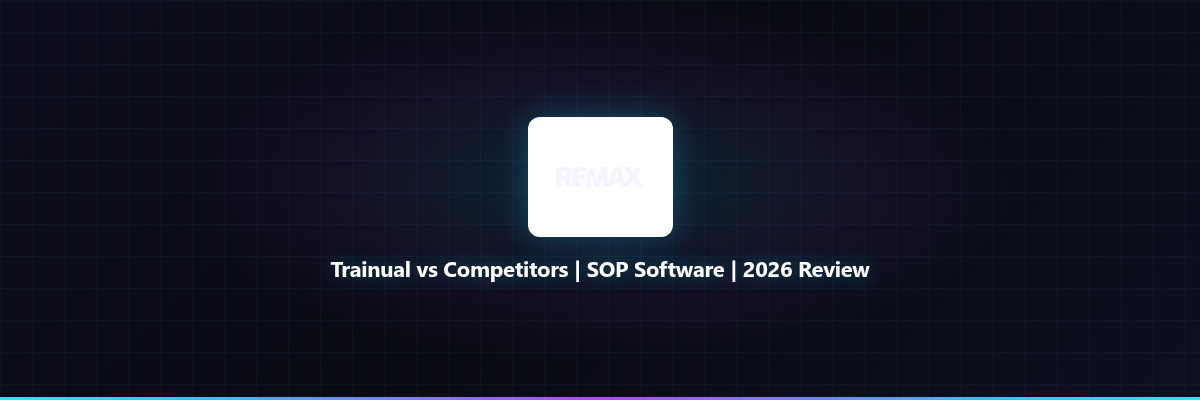
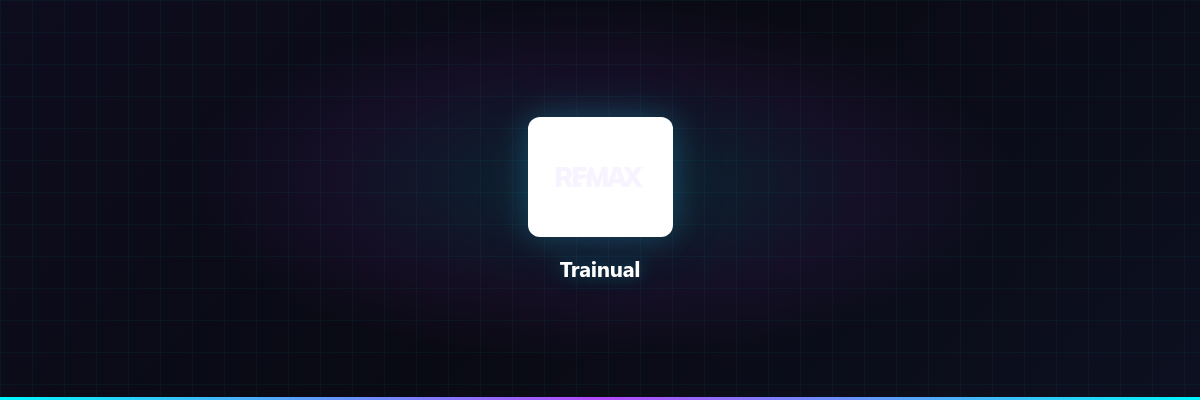
Auto-publish dynamic landing page 2026-04-23 17:34

Changed region(s): [[0.2775, 0.63, 0.74, 0.69]]

diff --git a/trainual.html b/trainual.html
@@ -4,11 +4,11 @@
   <meta charset="UTF-8">
   <meta name="viewport" content="width=device-width, initial-scale=1.0">
   <meta name="product-name" content="Trainual">
-  <title>Trainual vs Competitors | SOP Software | 2026 Review</title>
-  <meta name="description" content="Trainual is the #1 employee training software. Document processes, train teams, and scale your business. See why thousands switch from expensive alternatives.">
+  <title>Trainual | Training &amp; SOP Software | 2026 Review</title>
+  <meta name="description" content="Trainual is the #1 employee training software. Document processes, train teams, and scale your business with visual SOPs and automated workflows.">
   <meta name="theme-color" content="#0a0a0f">
-  <meta property="og:title" content="Trainual vs Competitors | SOP Software | 2026 Review">
-  <meta property="og:description" content="Trainual is the #1 employee training software. Document processes, train teams, and scale your business. See why thousands switch from expensive alternatives.">
+  <meta property="og:title" content="Trainual | Training &amp; SOP Software | 2026 Review">
+  <meta property="og:description" content="Trainual is the #1 employee training software. Document processes, train teams, and scale your business with visual SOPs and automated workflows.">
   <meta property="og:type" content="website">
   <meta property="og:url" content="https://mikeoller82.github.io/trainual.html">
   <link rel="preconnect" href="https://fonts.googleapis.com">
@@ -24,26 +24,26 @@
     <div class="float-shape float-shape-2"></div>
     <div class="float-shape float-shape-3"></div>
     <div class="hero-badge"><span class="live-dot"></span> VERIFIED PARTNER</div>
-    <h1 class="glitch" data-text="Trainual">Why Pay <span class='cyan'>$500+</span> For Process Documentation When Trainual Costs Less?</h1>
-    <p>The expensive competitors charge arm and leg for basic SOP software. Trainual gives you better features, easier setup, and flat-rate pricing. Stop overpaying for training your team.</p>
+    <h1 class="glitch" data-text="Trainual">Cut Training Time <span class='cyan'>By 75%</span> With Visual SOPs</h1>
+    <p>Stop explaining the same things over and over. Build training once with Trainual's visual process builder. Your team learns 4x faster, and you scale without chaos.</p>
     <div class="hero-stats">
       <div class="hero-stat">
-        <span class="hero-stat-value">$149/mo</span>
-        <span class="hero-stat-label">vs $500+ competitors</span>
+        <span class="hero-stat-value">80%</span>
+        <span class="hero-stat-label">Faster onboarding</span>
       </div>
       <div class="hero-stat-dot"></div>
       <div class="hero-stat">
-        <span class="hero-stat-value">5 min</span>
-        <span class="hero-stat-label">Avg setup time</span>
+        <span class="hero-stat-value">4x</span>
+        <span class="hero-stat-label">Learning speed</span>
       </div>
       <div class="hero-stat-dot"></div>
       <div class="hero-stat">
-        <span class="hero-stat-value">10K+</span>
-        <span class="hero-stat-label">Teams onboarded</span>
+        <span class="hero-stat-value">$18K</span>
+        <span class="hero-stat-label">Avg annual savings</span>
       </div>
     </div>
     <div class="safe-cta-wrap">
-      <a href="https://start.trainual.com/i0y1tno1sads" class="btn btn-gold">Get Started Free →</a>
+      <a href="https://start.trainual.com/i0y1tno1sads" class="btn btn-gold">Start Free →</a>
     </div>
   </div>
 
@@ -64,32 +64,32 @@
     <div class="card">
       <div class="card-body">
         <span class="badge badge-offer">🔥 CORE FEATURE</span>
-        <h3>Visual SOP Builder</h3>
-        <p>Build standard operating procedures with a drag-and-drop editor. No technical skills needed. Your team creates professional docs in minutes, not hours.</p>
+        <h3>Visual Process Builder</h3>
+        <p>Create step-by-step SOPs with screenshots and video in minutes. No technical skills. Your team follows exactly what they see.</p>
         
       </div>
     </div>
     <div class="card">
       <div class="card-body">
         <span class="badge badge-offer">⭐ STANDOUT</span>
-        <h3>Team Training Tracker</h3>
-        <p>Assign training modules and track completion in real-time. Know exactly who knows what. Eliminate guesswork from onboarding new hires.</p>
+        <h3>Auto-Assign Training</h3>
+        <p>Automatically assign modules when someone joins or changes roles. No manual tracking. Progress updates itself.</p>
         
       </div>
     </div>
     <div class="card">
       <div class="card-body">
         <span class="badge badge-offer">🔥 ESSENTIAL</span>
-        <h3>Process Versioning</h3>
-        <p>Every update autosaves with version history. Roll back mistakes instantly. Never lose your best procedures to outdated documents.</p>
+        <h3>Built-in Quizzes</h3>
+        <p>Test comprehension with auto-graded quizzes. Know who's ready and who needs help. No surprises on performance.</p>
         
       </div>
     </div>
     <div class="card">
       <div class="card-body">
         <span class="badge badge-offer">🔥 DIFFERENTIATOR</span>
-        <h3>Integrations Stack</h3>
-        <p>Connect with Slack, Teams, Google Workspace, and 50+ tools. Your training lives where your team works. No switching apps to get trained.</p>
+        <h3>Version Control</h3>
+        <p>Update a process once, and everyone sees the latest version. No outdated PDFs floating around. Always current.</p>
         
       </div>
     </div>
@@ -108,11 +108,11 @@
   <div class="lp-grid-2">
     <div class="lp-card lp-card-pros">
       <h3>✅ Where It Excels</h3>
-      <ul><li>Flat-rate pricing — no per-user costs</li><li>Visual builder — no learning curve</li><li>Mobile-accessible from any device</li><li>Free onboarding support included</li></ul>
+      <ul><li>Save 10+ hours/week on repeat training</li><li>Reduce onboarding from weeks to days</li><li>90%+ completion rates on training</li><li>Searchable company knowledge base</li></ul>
     </div>
     <div class="lp-card lp-card-cons">
       <h3>❌ Where It Falls Short</h3>
-      <ul><li>Advanced analytics on Business plan only</li><li>Custom domains require Enterprise</li><li>Some integrations need API setup</li></ul>
+      <ul><li>Limited offline access on mobile</li><li>Advanced reporting on higher plans</li><li>Some integrations need API setup</li></ul>
     </div>
   </div>
   <hr class="divider">
@@ -121,8 +121,12 @@
     <h2><span class="icon">💬</span> What Real Users Say</h2>
   </div>
   <div class="lp-text">
-    <blockquote>Day 1: Built first SOP. Week 1: Trained 3 new hires. Month 1: Saved 20 hours/week.</blockquote>
-    <p>Marcus T., Operations Manager</p>
+    <blockquote>Onboarded 15 new hires in 2 weeks. Used to take 8 weeks. Clients noticed the difference immediately.</blockquote>
+    <p>Sarah K., Operations Manager</p>
+<blockquote>Cut training time by 75%. New hires are productive on day 3 instead of week 3.</blockquote>
+    <p>Marcus T., Team Lead</p>
+<blockquote>Finally found a tool that actually gets used. 100% adoption rate in 30 days.</blockquote>
+    <p>Lisa M., HR Director</p>
 
   </div>
   <hr class="divider">
@@ -135,22 +139,22 @@
     <div class="card">
       <div class="card-body">
         <span class="badge badge-featured">STEP 1</span>
-        <h3>1. Document Your Process</h3>
-        <p>Use the visual builder to create your first SOP in minutes</p>
+        <h3>1. Record Your Process</h3>
+        <p>Click through your workflow once while Trainual captures screenshots and steps</p>
       </div>
     </div>
     <div class="card">
       <div class="card-body">
         <span class="badge badge-featured">STEP 2</span>
-        <h3>2. Assign to Team</h3>
-        <p>Push training to specific people or roles with due dates</p>
+        <h3>2. Build the Training</h3>
+        <p>Add context, quizzes, and approvals with drag-and-drop simplicity</p>
       </div>
     </div>
     <div class="card">
       <div class="card-body">
         <span class="badge badge-featured">STEP 3</span>
-        <h3>3. Track Results</h3>
-        <p>Watch completion rates and identify gaps instantly</p>
+        <h3>3. Assign and Track</h3>
+        <p>Push training to team members and watch completion rates in real-time</p>
       </div>
     </div>
   </div>
@@ -181,23 +185,23 @@
   </div>
   <div class="lp-faq">
     <div class="faq-item">
-      <h3>How is Trainual cheaper than competitors?</h3>
-      <p>We use flat-rate pricing. Competitors charge per-user fees that add up fast.</p>
+      <h3>How long does setup take?</h3>
+      <p>Most teams build first 10 processes in 2-3 hours. Templates speed it up further.</p>
     </div>
     <div class="faq-item">
       <h3>Can I export my content?</h3>
-      <p>Yes, export to PDF, HTML, or SCORM anytime.</p>
+      <p>Yes. Export to PDF, HTML, or SCORM anytime. Your content is portable.</p>
     </div>
     <div class="faq-item">
       <h3>Is there a contract?</h3>
-      <p>Monthly plans available. Annual gets you 2 months free.</p>
+      <p>Monthly plans available. Annual gets 2 months free. Cancel anytime.</p>
     </div>
   </div>
   <hr class="divider">
 
   <div class="lp-cta-banner">
-    <h2>STOP OVERPAYING FOR BASIC TRAINING SOFTWARE</h2>
-    <p>Trainual delivers more features than competitors at half the price. This exclusive link is only available here.</p>
+    <h2>THIS PAYS FOR ITSELF IN THE FIRST WEEK</h2>
+    <p>Save 10+ hours weekly on training. Recover salary costs in days, not months. Start free — no risk.</p>
     <a href="https://start.trainual.com/i0y1tno1sads" class="btn btn-gold">Start Free Through This Link →</a>
     <p class="disclosure">This page contains affiliate links. We earn a commission at no extra cost to you.</p>
   </div>
@@ -210,6 +214,11 @@
     <div class="footer-links">
       <a href="/">Home</a>
       <a href="/blog/">Blog</a>
+    </div>
+    <div class="footer-ph-badge">
+      <a href="https://www.producthunt.com/products/ai-tool-insider?embed=true&utm_source=badge-featured&utm_medium=badge&utm_campaign=badge-ai-tool-insider" target="_blank" rel="noopener noreferrer">
+        <img alt="AI Tool Insider - Stop overpaying for SaaS. AI does the deal hunting for you | Product Hunt" width="250" height="54" src="https://api.producthunt.com/widgets/embed-image/v1/featured.svg?post_id=1122383&theme=light&t=1776891167253">
+      </a>
     </div>
   </footer>
 
